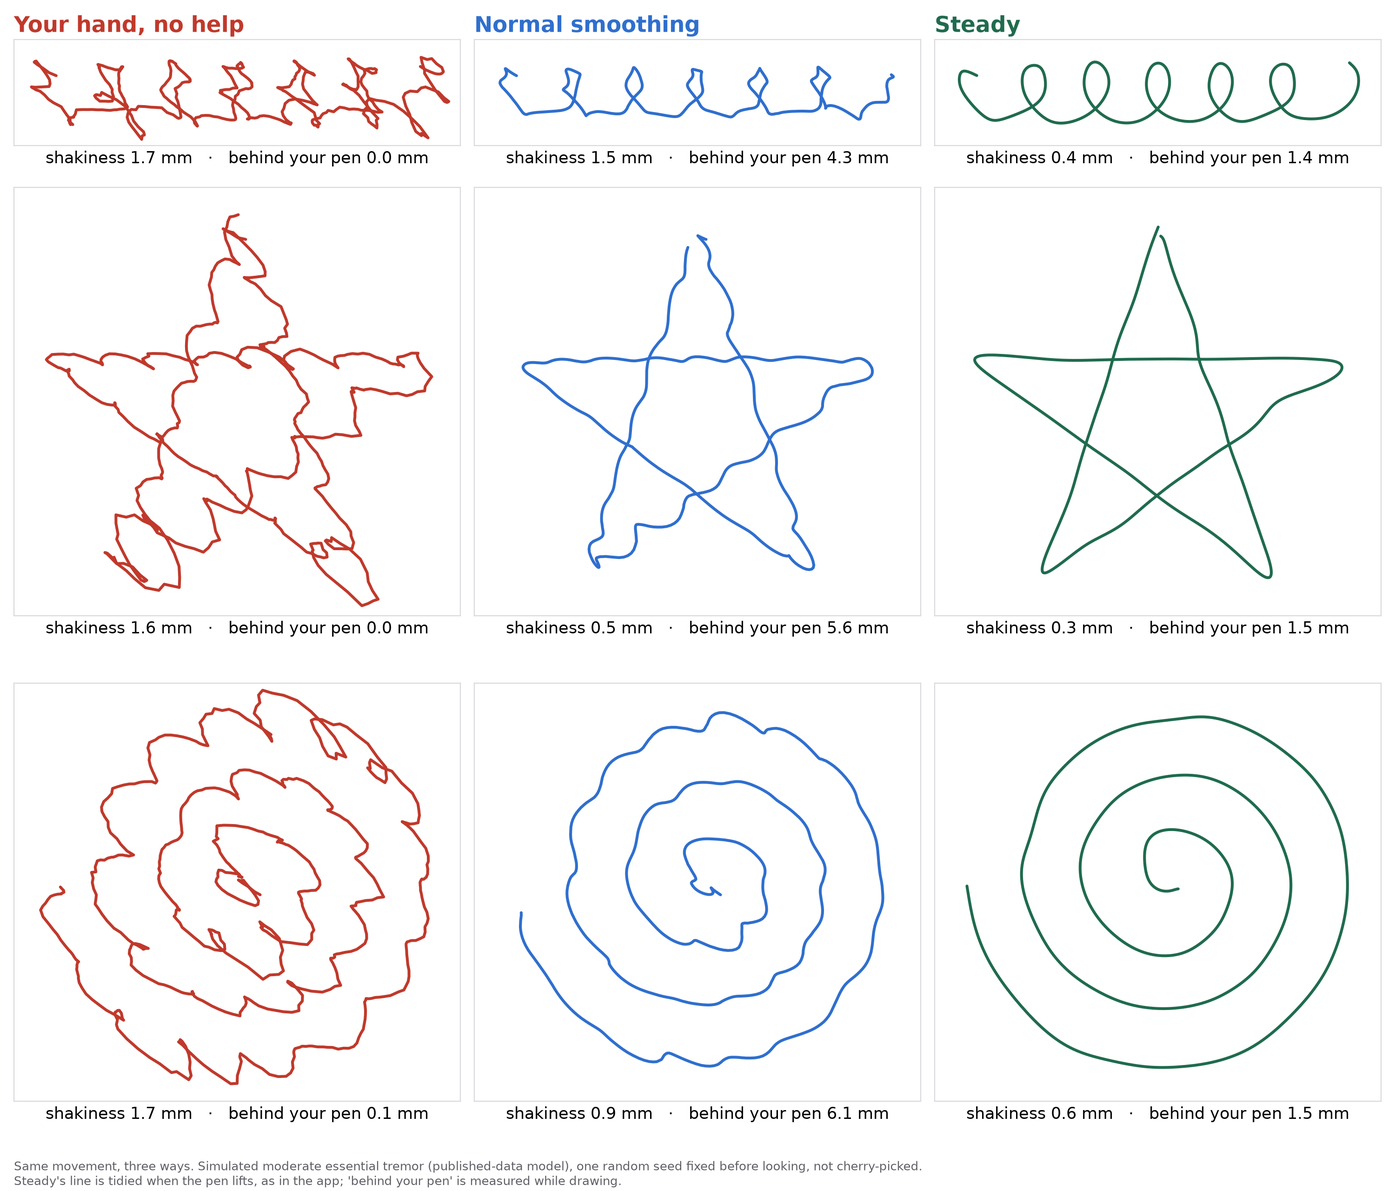
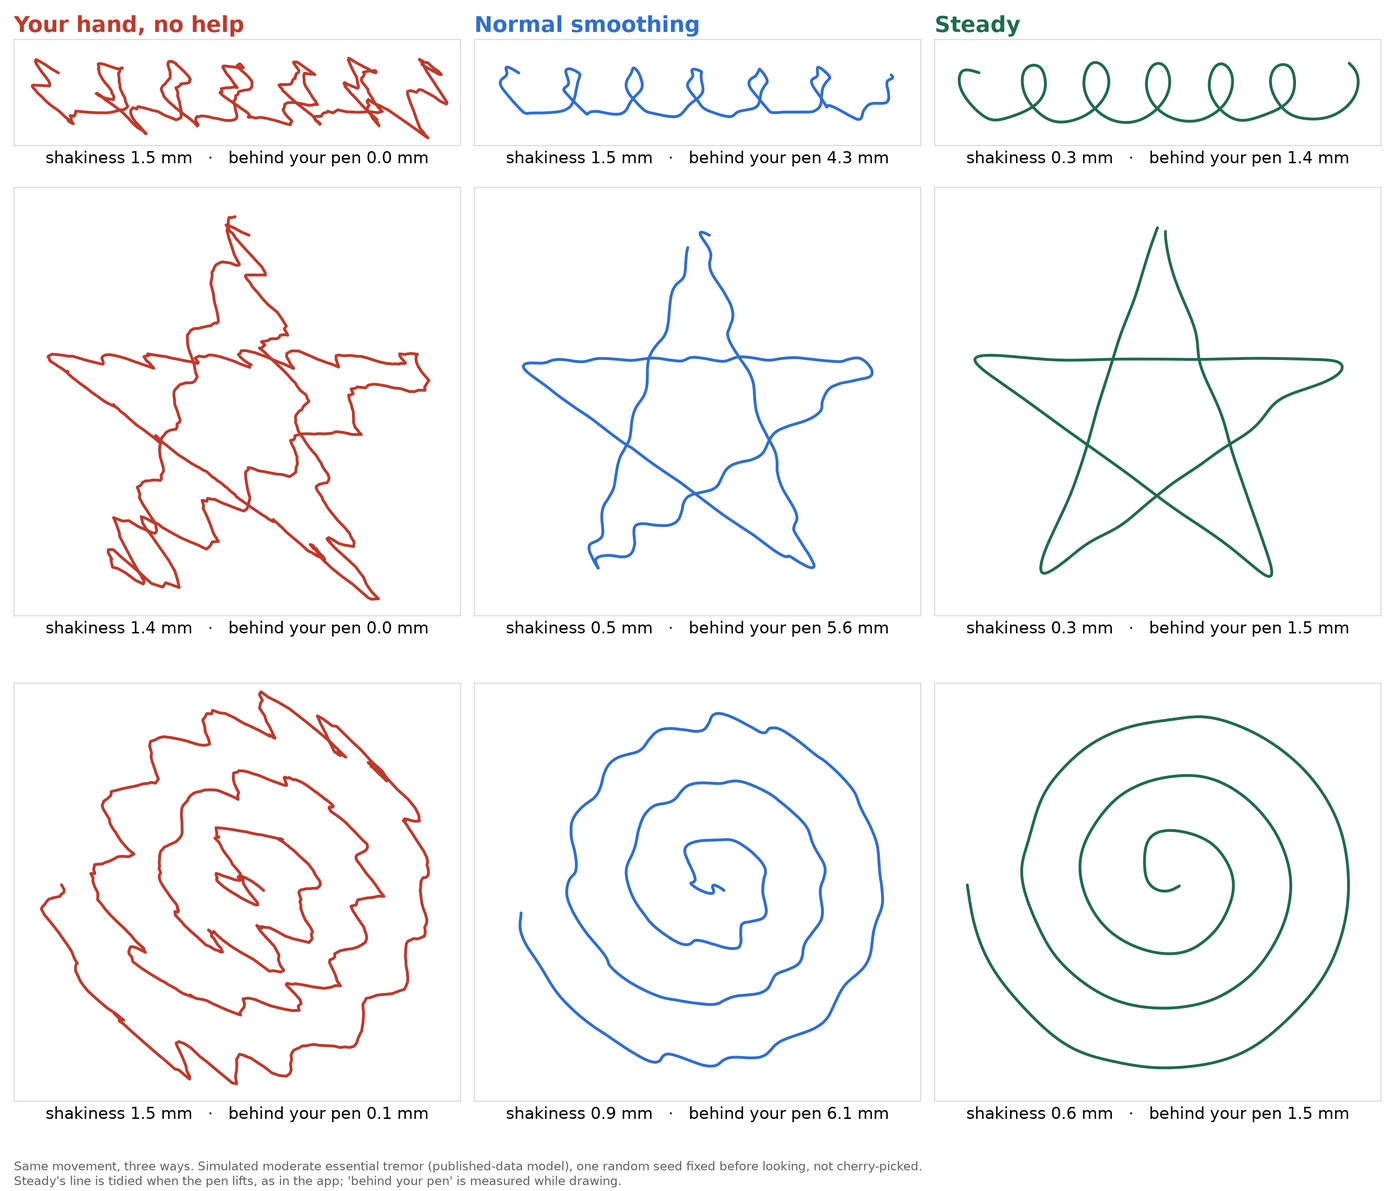
Back-and-forth simulated tremor on every page, keeps shaking while paused; new board image; ?v=26

diff --git a/js/draw.js b/js/draw.js
@@ -1,13 +1,13 @@
 // Steady drawing app. Uses the SAME filter code as the lab (js/filters.js), so study results apply to it.
-import { Filter2D } from './filters.js?v=25';
-import { PRESETS, makeTremor, SpeedEstimator } from './tremor.js?v=25';
-import { adaptiveParams, adaptiveSettle, clampTo, clampMm, tremorAmp, settle } from './settle.js?v=25';
-import { shakePeriods, shakeSpectrum, frequencyFromPeriods } from './shakefreq.js?v=25';
-import { openReplay } from './replay.js?v=25';
-import { ShakeTracker, STYLES, KEEP, pulseWidth, dotRadius, hatchLenMm } from './shakestyle.js?v=25';
+import { Filter2D } from './filters.js?v=26';
+import { lookPreset, makeLookTremor, SpeedEstimator, PAUSE_S } from './tremor.js?v=26';
+import { adaptiveParams, adaptiveSettle, clampTo, clampMm, tremorAmp, settle } from './settle.js?v=26';
+import { shakePeriods, shakeSpectrum, frequencyFromPeriods } from './shakefreq.js?v=26';
+import { openReplay } from './replay.js?v=26';
+import { ShakeTracker, STYLES, KEEP, pulseWidth, dotRadius, hatchLenMm } from './shakestyle.js?v=26';
 // MM_PER_PX: the device's real size (js/calib.js); the filter's parameters are in millimetres
-import { MM_PER_PX, onCalibrationChange, openCalibration, calibrationLabel, promptCalibrationIfNeeded } from './calib.js?v=25';
-import { saveDrawing, loadDrawing } from './store.js?v=25';
+import { MM_PER_PX, onCalibrationChange, openCalibration, calibrationLabel, promptCalibrationIfNeeded } from './calib.js?v=26';
+import { saveDrawing, loadDrawing } from './store.js?v=26';
 
 const $ = (id) => document.getElementById(id);
 
@@ -61,7 +61,7 @@ const RACE_COLOR = 'rgba(47,143,206,.6)';
 const s0Race = () => ({ liveS: 0, liveR: 0, sumS: 0, sumR: 0, n: 0, done: false });
 // Same speed-dependent tremor generator as the lab (one instance, continuous in time across strokes).
 // Seeded differently on every page load, so the demo shake is never the same twice.
-const tremorGen = makeTremor(S.syn.preset, {}, (Date.now() ^ Math.floor(Math.random() * 2 ** 31)) >>> 0), speedEst = new SpeedEstimator(0.08);
+const tremorGen = makeLookTremor(S.syn.preset, {}, (Date.now() ^ Math.floor(Math.random() * 2 ** 31)) >>> 0), speedEst = new SpeedEstimator(0.08);
 
 // ---------------------------------------------------------------- canvases
 const ink = $('ink'), ghost = $('ghost'), race = $('race');
@@ -183,6 +183,8 @@ function ingest(ev) {
   const t = (ev.__testT ?? ev.timeStamp) / 1000; // __testT: synthetic events in automated checks only
   if (!(t > S.lastT)) return; // duplicate / out-of-order events
   S.lastT = t;
+  S.lastEv = { clientX: ev.clientX, clientY: ev.clientY, pressure: ev.pressure, pointerType: ev.pointerType };
+  S.testClock = ev.__testT !== undefined;
   const r = ink.getBoundingClientRect();
   let xm = (ev.clientX - r.left) * MM_PER_PX, ym = (ev.clientY - r.top) * MM_PER_PX;
   const penX = xm, penY = ym;             // where the pen is (before any simulated tremor): the lag race measures from here
@@ -252,6 +254,12 @@ ink.addEventListener('pointermove', (e) => {
   const evs = e.getCoalescedEvents ? e.getCoalescedEvents() : [];
   for (const ce of (evs.length ? evs : [e])) ingest(ce);
 });
+// Simulated tremor only: a finger resting on the screen sends no events, so feed the last position again (shake goes on).
+setInterval(() => {
+  if (!S.cur || !S.syn.on || S.testClock || !S.lastEv) return;
+  const now = performance.now();
+  if (now / 1000 - S.lastT > PAUSE_S) ingest({ ...S.lastEv, timeStamp: now });
+}, 8);
 function endStroke(e) {
   if (e.pointerId !== S.pointerId) return;
   S.pointerId = null;
@@ -458,7 +466,7 @@ for (const [k, name, note] of DEMO_PRESETS) {
   b.className = 'preset'; b.dataset.k = k; b.setAttribute('aria-pressed', 'false');
   b.innerHTML = '<span class="p-name"></span><span class="p-note"></span>';
   b.firstChild.textContent = name; b.lastChild.textContent = note;
-  b.addEventListener('click', () => { S.syn.preset = k; tremorGen.p = { ...PRESETS[k] }; syncButtons(); });
+  b.addEventListener('click', () => { S.syn.preset = k; tremorGen.p = lookPreset(k); syncButtons(); });
   $('presetList').appendChild(b);
 }
 $('replayBtn').onclick = replayLast;

diff --git a/js/booth.js b/js/booth.js
@@ -7,11 +7,11 @@
 //   Behind your pen = mean distance the line trails the pen along the direction of movement (tremor averages out)
 // When the pen lifts, Steady's stroke settles exactly as in the drawing app ("Smooth" mode), and Shakiness then
 // scores that final line: it is what stays on the page. Behind your pen is always measured while drawing.
-import { Filter2D } from './filters.js?v=25';
-import { PRESETS, makeTremor, SpeedEstimator } from './tremor.js?v=25';
-import { settle, adaptiveParams, adaptiveSettle, clampTo, clampMm, tremorAmp } from './settle.js?v=25';
-import { shakePeriods, shakeSpectrum, frequencyFromPeriods } from './shakefreq.js?v=25';
-import { MM_PER_PX } from './calib.js?v=25';
+import { Filter2D } from './filters.js?v=26';
+import { lookPreset, makeLookTremor, SpeedEstimator, PAUSE_S } from './tremor.js?v=26';
+import { settle, adaptiveParams, adaptiveSettle, clampTo, clampMm, tremorAmp } from './settle.js?v=26';
+import { shakePeriods, shakeSpectrum, frequencyFromPeriods } from './shakefreq.js?v=26';
+import { MM_PER_PX } from './calib.js?v=26';
 
 const $ = (sel, el = document) => el.querySelector(sel);
 const KINDS = ['raw', 'ema', 'steady'];
@@ -21,12 +21,6 @@ const MOVING_MM_S = 20;   // "behind your pen" only counts while the pen is real
 const NEAR_S = 0.5;       // shakiness: nearest point on the meant path within +-0.5 s (keeps it fast)
 const CLAIM_MM = 0.4;     // same threshold as the drawing app's status line
 const SETTLE_K = 0.5, SETTLE_BASE = 8.0, SETTLE_MS = 350;   // the drawing app's default "Smooth" setting
-// Booth-only look (2026-11-11): a tester said the shake looked fake. The presets' oval motion (ecc 0.35) draws neat
-// curly loops at writing speed; essential tremor mostly shakes back and forth along one (wandering) axis, so the
-// booth uses ecc 0.1. The test results keep the original presets. PAUSE_S: no pointer event for this long = the
-// finger is resting, so the shake keeps going on its own clock, as a real hand does.
-const BOOTH_ECC = 0.1, PAUSE_S = 0.12;
-const handPreset = (k) => ({ ...PRESETS[k], ecc: BOOTH_ECC });
 
 const S = {
   hand: 'et_moderate', strokes: [], cur: null, pointerId: null, lastT: -Infinity, dirty: true,
@@ -40,7 +34,7 @@ const speedEst = new SpeedEstimator(0.08);
 function freshFilters() {
   steadyF = new Filter2D('steady');   // persistent between strokes, like the drawing app: it keeps learning the tremor
   emaF = new Filter2D('ema');
-  tremorGen = makeTremor(S.hand === 'none' ? 'et_moderate' : S.hand, { ecc: BOOTH_ECC }, (Date.now() ^ Math.floor(Math.random() * 2 ** 31)) >>> 0);
+  tremorGen = makeLookTremor(S.hand === 'none' ? 'et_moderate' : S.hand, {}, (Date.now() ^ Math.floor(Math.random() * 2 ** 31)) >>> 0);
 }
 freshFilters();
 
@@ -249,7 +243,7 @@ for (const [k, name] of HANDS) {
   const b = document.createElement('button'); b.dataset.k = k; b.textContent = name;
   b.addEventListener('click', () => {
     S.hand = k;
-    if (k !== 'none') tremorGen.p = handPreset(k);
+    if (k !== 'none') tremorGen.p = lookPreset(k);
     syncHand();
   });
   handBox.appendChild(b);

diff --git a/js/main.js b/js/main.js
@@ -1,12 +1,12 @@
 // Steady app: drawing canvas, live filters, synthetic tremor, study mode, optional serial.
-import { Filter2D, TremorTracker } from './filters.js?v=25';
-import { makeTemplate, TASKS, TASK_HELP, spiralRadialErrors, errStats, lineStraightness, pathLength } from './tasks.js?v=25';
-import { sanitizeId, rowForParticipant, orderForRow, trialCsv, trialFilename, summaryCsv, download } from './study.js?v=25';
-import { SteadySerial, ImuPlot, serialSupported } from './serial.js?v=25';
-import { PenMeter } from './penmeter.js?v=25';
-import { PRESETS, PRESET_ORDER, makeTremor, SpeedEstimator } from './tremor.js?v=25';
-import { openCompare } from './compare.js?v=25';
-import { MM_PER_PX, calibration, setMmPerPx, onCalibrationChange, openCalibration, promptCalibrationIfNeeded } from './calib.js?v=25';
+import { Filter2D, TremorTracker } from './filters.js?v=26';
+import { makeTemplate, TASKS, TASK_HELP, spiralRadialErrors, errStats, lineStraightness, pathLength } from './tasks.js?v=26';
+import { sanitizeId, rowForParticipant, orderForRow, trialCsv, trialFilename, summaryCsv, download } from './study.js?v=26';
+import { SteadySerial, ImuPlot, serialSupported } from './serial.js?v=26';
+import { PenMeter } from './penmeter.js?v=26';
+import { PRESETS, PRESET_ORDER, lookPreset, makeLookTremor, SpeedEstimator } from './tremor.js?v=26';
+import { openCompare } from './compare.js?v=26';
+import { MM_PER_PX, calibration, setMmPerPx, onCalibrationChange, openCalibration, promptCalibrationIfNeeded } from './calib.js?v=26';
 
 const $ = (id) => document.getElementById(id);
 const canvas = $('draw'), ctx = canvas.getContext('2d');
@@ -19,7 +19,7 @@ const S = {
   mon: new TremorTracker(),
   strokes: [], cur: null, drawing: false, lastT: -Infinity,
   syn: { on: false, preset: 'et_moderate', custom: false, hz: PRESETS.et_moderate.f0, mm: PRESETS.et_moderate.amp },
-  gen: makeTremor('et_moderate', {}, 20240607), speed: new SpeedEstimator(0.08), // one generator, continuous in time (never restarted per stroke)
+  gen: makeLookTremor('et_moderate', {}, 20240607), speed: new SpeedEstimator(0.08), // one generator, continuous in time (never restarted per stroke)
   rec: [], recCur: null,
   lag: { ms: 0, ok: false, hist: [] }, fs: 0,
   guide: 'none', template: null, trial: null, study: null,
@@ -182,7 +182,7 @@ const selP = $('synPreset');
 for (const k of PRESET_ORDER) selP.add(new Option(PRESETS[k].name, k));
 const optCustom = new Option('Custom', 'custom'); optCustom.hidden = true; selP.add(optCustom);
 const clampN = (v, lo, hi, d) => (Number.isFinite(v) ? Math.min(hi, Math.max(lo, v)) : d);
-function applyGen() { S.gen.p = { ...PRESETS[S.syn.preset], f0: S.syn.hz, amp: S.syn.mm }; } // keeps phase/OU state: continuous in time
+function applyGen() { S.gen.p = lookPreset(S.syn.preset, { f0: S.syn.hz, amp: S.syn.mm }); } // keeps phase/OU state: continuous in time
 function synUi() {
   S.syn.on = $('synOn').checked;
   if (S.syn.custom) { optCustom.hidden = false; optCustom.text = `Custom (based on ${PRESETS[S.syn.preset].name})`; selP.value = 'custom'; }

diff --git a/js/pad.js b/js/pad.js
@@ -5,10 +5,10 @@
 //   live = what Steady drew while the pen was down
 //   pts  = the final line on screen (live, settled after pen-up when Smoothing is on; raw when Steady is off)
 // All coordinates are CSS pixels on the canvas.
-import { Filter2D } from './filters.js?v=25';
-import { makeTremor, SpeedEstimator, PRESETS } from './tremor.js?v=25';
-import { adaptiveParams, adaptiveSettle, clampTo, clampMm, tremorAmp } from './settle.js?v=25';
-import { MM_PER_PX, onCalibrationChange } from './calib.js?v=25';
+import { Filter2D } from './filters.js?v=26';
+import { makeLookTremor, lookPreset, SpeedEstimator, PAUSE_S } from './tremor.js?v=26';
+import { adaptiveParams, adaptiveSettle, clampTo, clampMm, tremorAmp } from './settle.js?v=26';
+import { MM_PER_PX, onCalibrationChange } from './calib.js?v=26';
 
 export { MM_PER_PX }; // live: follows the device's real-size calibration (js/calib.js)
 export const SMOOTH_K = { off: null, smooth: 0.5, extra: 0.3 };
@@ -23,11 +23,17 @@ export function createPad(ink, ghost, opts = {}) {
     onEnd: opts.onEnd || (() => {}), onStart: opts.onStart || (() => {}),
   };
   pad.filter = new Filter2D('steady');
-  pad.tremor = makeTremor(pad.syn.preset, {}, (Date.now() ^ Math.floor(Math.random() * 2 ** 31)) >>> 0);
+  pad.tremor = makeLookTremor(pad.syn.preset, {}, (Date.now() ^ Math.floor(Math.random() * 2 ** 31)) >>> 0);
   const speed = new SpeedEstimator(0.08);
-  let cur = null, pointerId = null, sawPen = false, lastT = -Infinity;
+  let cur = null, pointerId = null, sawPen = false, lastT = -Infinity, lastEv = null, testClock = false;
+  // Simulated tremor only: a finger resting on the screen sends no events, so feed the last position again.
+  setInterval(() => {
+    if (!cur || !pad.syn.on || testClock || !lastEv) return;
+    const now = performance.now();
+    if (now / 1000 - lastT > PAUSE_S) ingest({ ...lastEv, timeStamp: now });
+  }, 8);
 
-  pad.setPreset = (k) => { pad.syn.preset = k; pad.tremor.p = { ...PRESETS[k] }; };
+  pad.setPreset = (k) => { pad.syn.preset = k; pad.tremor.p = lookPreset(k); };
 
   function seg(ctx, p0, p1, p2, color, width) {
     const m0 = p0 ? [(p0.x + p1.x) / 2, (p0.y + p1.y) / 2] : [p1.x, p1.y];
@@ -69,7 +75,7 @@ export function createPad(ink, ghost, opts = {}) {
   function ingest(ev) {
     const t = (ev.__testT ?? ev.timeStamp) / 1000; // __testT: synthetic events in automated checks only
     if (!(t > lastT)) return;
-    lastT = t;
+    lastT = t; lastEv = { clientX: ev.clientX, clientY: ev.clientY }; testClock = ev.__testT !== undefined;
     const r = ink.getBoundingClientRect();
     let xm = (ev.clientX - r.left) * MM_PER_PX, ym = (ev.clientY - r.top) * MM_PER_PX;
     const spd = speed.update(t, xm, ym);

diff --git a/judges.html b/judges.html
@@ -9,7 +9,7 @@
 <link rel="apple-touch-icon" href="icons/apple-touch-icon.png">
 <meta name="theme-color" content="#1f6b4e">
 <title>Steady for judges</title>
-<link rel="stylesheet" href="css/info.css?v=25">
+<link rel="stylesheet" href="css/info.css?v=26">
 </head>
 <body>
 <header class="bar"><div class="bar-in">
@@ -44,7 +44,7 @@
       alt="The same handwriting loops, star and spiral drawn three ways. Your hand, no help: very shaky. Normal smoothing: less shaky but loops crushed and corners rounded, 4 to 6 mm behind the pen. Steady: clean loops, sharp star, round spiral, about 1.5 mm behind the pen.">
     <figcaption>The same movement, three ways (simulated moderate essential tremor, one random seed fixed before
       looking). Smoothing can't tell tremor from handwriting, because both are fast, so it crushes the loops: on
-      handwriting it is barely better than no help (1.5 mm vs 1.7 mm). Steady: 0.4 mm. Try it with your own hand on the
+      handwriting it is no better than no help (1.5 mm vs 1.5 mm). Steady: 0.3 mm. Try it with your own hand on the
       <a href="booth.html">booth page</a>.</figcaption>
   </figure>
   <p>Three things a smoothing filter does not do:</p>
@@ -159,7 +159,10 @@
     one beat to the next; di Biase et al., <i>Brain</i>, 2017) is 1.3-1.9 Hz for essential tremor. Our simulator scored
     0.84-1.04 Hz, so real essential tremor is even <b>less</b> steady than we had assumed. We built a second,
     literature-matched tremor model (its target fixed before looking at any results), tested every method on both, and
-    retuned Steady on training data to follow changing tremor better (v6).</p>
+    retuned Steady on training data to follow changing tremor better (v6).
+    A tester also said our shake <i>looked</i> fake: it moved the pen in small ovals, which drew curly loops. Real
+    essential tremor mostly shakes back and forth, so the pictures and the try-it pages now use a flatter, back-and-forth
+    version. The numbers on this page are from the original (rounder) version.</p>
   <div class="table"><table>
     <thead><tr><th>Literature-matched tremor, moderate essential tremor (final test)</th><th class="n">Error (mm)</th><th class="n">Delay (ms)</th></tr></thead>
     <tbody>
@@ -324,6 +327,6 @@
 </main>
 <footer>A student science fair project. Not a medical device. Nothing you draw leaves your device.</footer>
 <script>if ('serviceWorker' in navigator) navigator.serviceWorker.register('sw.js').catch(() => {});</script>
-<script type="module" src="js/sitemenu.js?v=25"></script>
+<script type="module" src="js/sitemenu.js?v=26"></script>
 </body>
 </html>

diff --git a/booth.html b/booth.html
@@ -8,7 +8,7 @@
 <link rel="apple-touch-icon" href="icons/apple-touch-icon.png">
 <meta name="theme-color" content="#1f6b4e">
 <title>Try Steady</title>
-<link rel="stylesheet" href="css/booth.css?v=25">
+<link rel="stylesheet" href="css/booth.css?v=26">
 </head>
 <body>
 <header class="bar">
@@ -41,12 +41,12 @@
   <p>All three boxes draw the <b>same</b> movement at the same moment. The small ring is where your pen really is.
     <b>Shakiness</b>: how far the line wanders from the path you meant (mm). <b>Behind your pen</b>: how far the line trails the pen while you move (mm). When you lift the pen, Steady tidies the
     stroke it just drew, as the drawing app does.
-    The shake is simulated from published tremor data, made mostly back-and-forth for the booth (the test results
-    used a slightly rounder version); a real hand with tremor can use "No tremor added".</p>
+    The shake is simulated from published tremor data, mostly back-and-forth (the test results used a slightly rounder
+    version); a real hand with tremor can use "No tremor added".</p>
 </footer>
 
-<script type="module" src="js/booth.js?v=25"></script>
-<script type="module" src="js/sitemenu.js?v=25"></script>
+<script type="module" src="js/booth.js?v=26"></script>
+<script type="module" src="js/sitemenu.js?v=26"></script>
 <script>if ('serviceWorker' in navigator) navigator.serviceWorker.register('sw.js').catch(() => {});</script>
 </body>
 </html>

diff --git a/js/checkin.js b/js/checkin.js
@@ -10,12 +10,12 @@
 //                 only when the shake is clear (size >= 0.2 mm, >= 8 cycles, >= half of them within 25 % of the
 //                 median, and its energy concentrated near one frequency). Independent of Steady, so it is the same with Steady on or off (since 2026-10-25).
 //   off spiral  = mean |radial distance| to the guide spiral (js/tasks.js), for the raw hand and for Steady's line.
-import { createPad, MM_PER_PX } from './pad.js?v=25';
-import { $, wireCommon, download, fitCanvas } from './pagekit.js?v=25';
-import { makeTemplate, spiralRadialErrors, errStats } from './tasks.js?v=25';
-import { settle } from './settle.js?v=25';
-import { shakePeriods, shakeSpectrum, frequencyFromPeriods } from './shakefreq.js?v=25';
-import { calibration, onCalibrationChange, openCalibration, promptCalibrationIfNeeded } from './calib.js?v=25';
+import { createPad, MM_PER_PX } from './pad.js?v=26';
+import { $, wireCommon, download, fitCanvas } from './pagekit.js?v=26';
+import { makeTemplate, spiralRadialErrors, errStats } from './tasks.js?v=26';
+import { settle } from './settle.js?v=26';
+import { shakePeriods, shakeSpectrum, frequencyFromPeriods } from './shakefreq.js?v=26';
+import { calibration, onCalibrationChange, openCalibration, promptCalibrationIfNeeded } from './calib.js?v=26';
 
 const KEY = 'steady.checkin.log';
 const guide = $('guide');

diff --git a/js/tremor.js b/js/tremor.js
@@ -28,6 +28,20 @@ export const PRESETS = {
 };
 export const PRESET_ORDER = ['healthy', 'et_mild', 'et_moderate', 'et_severe', 'pd_rest', 'sine'];
 
+// Look of the simulated tremor on the pages (2026-11-11): a tester said the shake looked fake. With ecc 0.35 the
+// oval motion draws curly loops at writing speed; essential and Parkinson's tremor mostly shake back and forth
+// along one (wandering) axis, so the pages use ecc 0.1 for those presets. PRESETS stay as tested (final-test
+// numbers, Python parity); 'healthy' and 'sine' are unchanged.
+export const LOOK_ECC = 0.1;
+export const lookPreset = (k, overrides = {}) =>
+  ({ ...PRESETS[k], ...(['healthy', 'sine'].includes(k) ? {} : { ecc: LOOK_ECC }), ...overrides });
+/** Like makeTremor, with the pages' look. */
+export const makeLookTremor = (k, overrides = {}, seed = 0) => new TremorGenerator(lookPreset(k, overrides), seed);
+
+/** A finger resting on the screen sends no pointer events; while the simulated tremor is on, the pages feed the
+ *  last pen position again after this long (s) so the shake goes on, as a real hand's does. */
+export const PAUSE_S = 0.12;
+
 /** Small seedable PRNG: mulberry32 uniform + Box-Muller normal. */
 export function makeRng(seed = 0) {
   let a = (seed >>> 0) || 0x9e3779b9, spare = null;

diff --git a/checkin.html b/checkin.html
@@ -8,8 +8,8 @@
 <link rel="apple-touch-icon" href="icons/apple-touch-icon.png">
 <meta name="theme-color" content="#1f6b4e">
 <title>Spiral check-in</title>
-<link rel="stylesheet" href="css/draw.css?v=25">
-<link rel="stylesheet" href="css/pages.css?v=25">
+<link rel="stylesheet" href="css/draw.css?v=26">
+<link rel="stylesheet" href="css/pages.css?v=26">
 </head>
 <body class="page">
 <svg width="0" height="0" style="position:absolute" aria-hidden="true">
@@ -80,8 +80,8 @@
   <button id="ghostOn" class="row-switch" role="switch" aria-checked="false"><span>Show the raw, shaky line</span><span class="mini"><span class="knob"></span></span></button>
 </div>
 
-<script type="module" src="js/checkin.js?v=25"></script>
+<script type="module" src="js/checkin.js?v=26"></script>
 <script>if ('serviceWorker' in navigator) navigator.serviceWorker.register('sw.js').catch(() => {});</script>
-<script type="module" src="js/sitemenu.js?v=25"></script>
+<script type="module" src="js/sitemenu.js?v=26"></script>
 </body>
 </html>

diff --git a/trace.html b/trace.html
@@ -8,8 +8,8 @@
 <link rel="apple-touch-icon" href="icons/apple-touch-icon.png">
 <meta name="theme-color" content="#1f6b4e">
 <title>Trace and colour</title>
-<link rel="stylesheet" href="css/draw.css?v=25">
-<link rel="stylesheet" href="css/pages.css?v=25">
+<link rel="stylesheet" href="css/draw.css?v=26">
+<link rel="stylesheet" href="css/pages.css?v=26">
 </head>
 <body class="page">
 <svg width="0" height="0" style="position:absolute" aria-hidden="true">
@@ -75,8 +75,8 @@
   <button id="ghostOn" class="row-switch" role="switch" aria-checked="false"><span>Show the raw, shaky line</span><span class="mini"><span class="knob"></span></span></button>
 </div>
 
-<script type="module" src="js/trace.js?v=25"></script>
+<script type="module" src="js/trace.js?v=26"></script>
 <script>if ('serviceWorker' in navigator) navigator.serviceWorker.register('sw.js').catch(() => {});</script>
-<script type="module" src="js/sitemenu.js?v=25"></script>
+<script type="module" src="js/sitemenu.js?v=26"></script>
 </body>
 </html>

diff --git a/js/trace.js b/js/trace.js
@@ -4,9 +4,9 @@
 //   Colour: fill a shape. Score = share of your ink inside the outline; Filled = share of the shape covered.
 // Every score is computed twice: for the line on screen and for the raw hand (what it would have been without Steady).
 // Masks are rasterised at half resolution; good enough for whole percentages.
-import { createPad, MM_PER_PX } from './pad.js?v=25';
-import { onCalibrationChange, promptCalibrationIfNeeded } from './calib.js?v=25';
-import { $, wireCommon, fitCanvas } from './pagekit.js?v=25';
+import { createPad, MM_PER_PX } from './pad.js?v=26';
+import { onCalibrationChange, promptCalibrationIfNeeded } from './calib.js?v=26';
+import { $, wireCommon, fitCanvas } from './pagekit.js?v=26';
 
 const LANE_MM = 5, TRACE_W = 4, COLOUR_W = 18, MS = 0.5; // mask scale
 const PAINTS = [['Viridian', '#1f7a5a'], ['Ultramarine', '#2b4cc4'], ['Ochre', '#d39b2a'], ['Vermilion', '#e0472b'], ['Violet', '#6a3d9a']];

diff --git a/testers.html b/testers.html
@@ -9,7 +9,7 @@
 <link rel="apple-touch-icon" href="icons/apple-touch-icon.png">
 <meta name="theme-color" content="#1f6b4e">
 <title>Steady for testers</title>
-<link rel="stylesheet" href="css/info.css?v=25">
+<link rel="stylesheet" href="css/info.css?v=26">
 </head>
 <body>
 <header class="bar"><div class="bar-in">
@@ -63,8 +63,8 @@
   </ol>
 </main>
 <footer>A student science fair project. Not a medical device. Nothing you draw leaves your device.</footer>
-<script type="module" src="js/testers.js?v=25"></script>
+<script type="module" src="js/testers.js?v=26"></script>
 <script>if ('serviceWorker' in navigator) navigator.serviceWorker.register('sw.js').catch(() => {});</script>
-<script type="module" src="js/sitemenu.js?v=25"></script>
+<script type="module" src="js/sitemenu.js?v=26"></script>
 </body>
 </html>
